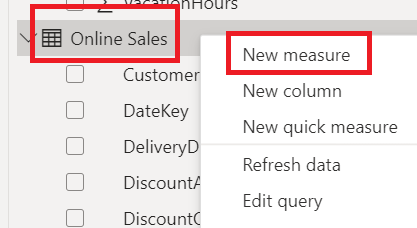
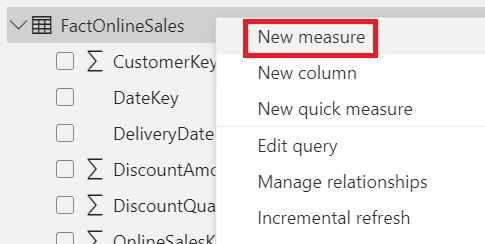
Updates to data modeling section for ordering.

diff --git a/Day After Dashboard in a Day/DataModeling.md b/Day After Dashboard in a Day/DataModeling.md
@@ -575,6 +575,76 @@ Learn more about [incremental refresh](https://learn.microsoft.com/power-bi/conn
 
 ---
 
+# Data Analysis Expressions (DAX)
+
+DAX is a formula expression language used in Analysis Services, Power BI, and Power Pivot in Excel. DAX formulas include functions, operators, and values to perform advanced calculations and queries on data in related tables and columns in tabular data models.
+## SUM
+1. Right click the **FactOnlineSales** table in the **Data** pane and select **New measure** and complete the formulas below.
+    
+
+    ![Sales new measure](./Media/SalesNewMeasure.png)
+
+1. In the formula bar, write the following DAX formulas:
+    1. **Note:** You'll need to follow the above instruction to create a new measure for each.
+
+    | Name | Measure |
+    | :-- | :-- |
+    | Total Sales Amount | SUM(FactOnlineSales[SalesAmount]) |
+    | Total Items Discounted | SUM(FactOnlineSales[DiscountQuantity]) |
+    | Total Returned Items | SUM(FactOnlineSales[ReturnQuantity]) |
+
+## SAMEPERIODLASTYEAR
+
+We need to compare sales from the previous year to the current time period. If there are no sales in the previous year, we should return a blank value.
+
+1. Right click the **FactOnlineSales** table in the **Data** pane and select **New measure** and complete the formula below.
+
+    ![Sales new measure](./Media/SalesNewMeasure.png)
+
+1. In the formula bar, write this DAX formula with the **CALCULATE**, and **SAMEPERIODLASTYEAR** functions. Use a variable (**VAR**) and conditional logic (**IF**) to account for years where no sales data is available.
+
+    ```powershell
+    Total Sales SPLY = 
+    VAR _hassalesdata =
+        NOT ( ISBLANK ( [Total Sales Amount] ) )
+    RETURN
+        IF (
+            _hassalesdata,
+            CALCULATE ( [Total Sales Amount], SAMEPERIODLASTYEAR (DimDate[DateKey] ) ),
+            BLANK ()
+        )
+    ```
+
+    The **SAMEPERIODLASTYEAR** function is a time intelligence function in DAX that returns a table that contains a column of dates shifted one year back in time from the dates in the specified dates column, in the current context.
+
+    Learn more about [SAMEPERIODLASTYEAR](https://learn.microsoft.com/dax/sameperiodlastyear-function-dax)
+
+
+## USERELATIONSHIP
+
+To filter by the order date and the delivery date from our **FactOnlineSales** table, we need to use the USERELATIONSHIP function in DAX. This will activate the relationship between **DateKey** in **DimDate** table and **DeliveryDate** in **FactOnlineSales** table with this formula.
+
+1. Right click the **FactOnlineSales** table in the **Data** pane and select **New measure**.
+
+    ![Sales new measure](./Media/SalesNewMeasure.png)
+
+1. In the formula bar, write this DAX formula with the **CALCULATE** and **USERELATIONSHIP** functions.
+
+    ```powershell
+    Total Sales By Delivery Date =
+    CALCULATE (
+        [Total Sales Amount],
+        USERELATIONSHIP ( DimDate[DateKey], FactOnlineSales[DeliveryDate] )
+    )
+
+    ```
+
+    The **USERELATIONSHIP** function is used to specify the relationship to be used in a specific calculation. When used, it temporarily activates the relationship between two tables for the duration of the calculation.
+    
+    Learn more about [USERELATIONSHIP](https://docs.microsoft.com/dax/userelationship-function-dax)
+
+---
+
 # Model properties
 
 With the model properties pane in Power BI, you can see and change the properties of your data model items, such as tables, columns, and measures. You can use the model properties pane to rename, format, type, group, describe, and adjust your data model items. The model properties pane helps you to arrange and explain your data model, and to make it look and work better.
@@ -759,75 +829,6 @@ Learn more about [aggregate](https://learn.microsoft.com/power-bi/create-reports
 
 ---
 
-# Data Analysis Expressions (DAX)
-
-DAX is a formula expression language used in Analysis Services, Power BI, and Power Pivot in Excel. DAX formulas include functions, operators, and values to perform advanced calculations and queries on data in related tables and columns in tabular data models.
-## SUM
-1. Right click the **Online Sales** table in the **Data** pane and select **New measure** and complete the formulas below.
-    
-
-    ![Sales new measure](./Media/SalesNewMeasure.png)
-
-1. In the formula bar, write the following DAX formulas:
-    1. **Note:** You'll need to follow the above instruction to create a new measure for each.
-
-    | Name | Measure |
-    | :-- | :-- |
-    | Total Sales Amount | SUM('FactOnlineSales'[SalesAmount]) |
-    | Total Items Discounted | SUM(FactOnlineSales[DiscountQuantity]) |
-    | Total Returned Items | SUM(FactOnlineSales[ReturnQuantity]) |
-
-## SAMEPERIODLASTYEAR
-
-We need to compare sales from the previous year to the current time period. If there are no sales in the previous year, we should return a blank value.
-
-1. Right click the **Online Sales** table in the **Data** pane and select **New measure** and complete the formula below.
-
-    ![Sales new measure](./Media/SalesNewMeasure.png)
-
-1. In the formula bar, write this DAX formula with the **CALCULATE**, and **SAMEPERIODLASTYEAR** functions. Use a variable (**VAR**) and conditional logic (**IF**) to account for years where no sales data is available.
-
-    ```powershell
-    Total Sales SPLY = 
-    VAR _hassalesdata =
-        NOT ( ISBLANK ( [Total Sales Amount] ) )
-    RETURN
-        IF (
-            _hassalesdata,
-            CALCULATE ( [Total Sales Amount], SAMEPERIODLASTYEAR (Calendar[DateKey] ) ),
-            BLANK ()
-        )
-    ```
-
-    The **SAMEPERIODLASTYEAR** function is a time intelligence function in DAX that returns a table that contains a column of dates shifted one year back in time from the dates in the specified dates column, in the current context.
-
-    Learn more about [SAMEPERIODLASTYEAR](https://learn.microsoft.com/dax/sameperiodlastyear-function-dax)
-
-
-## USERELATIONSHIP
-
-To filter by the order date and the delivery date from our **Online Sales** table, we need to use the USERELATIONSHIP function in DAX. This will activate the relationship between **DateKey** in **Calendar** table and **DeliveryDate** in **Online Sales** table with this formula.
-
-1. Right click the **Online Sales** table in the **Fields** pane and select **New measure**.
-
-    ![Sales new measure](./Media/SalesNewMeasure.png)
-
-1. In the formula bar, write this DAX formula with the **CALCULATE** and **USERELATIONSHIP** functions.
-
-    ```powershell
-    Total Sales By Delivery Date =
-    CALCULATE (
-        [Total Sales Amount],
-        USERELATIONSHIP ( DimDate[DateKey], FactOnlineSales[DeliveryDate] )
-    )
-
-    ```
-
-    The **USERELATIONSHIP** function is used to specify the relationship to be used in a specific calculation. When used, it temporarily activates the relationship between two tables for the duration of the calculation.
-    
-    Learn more about [USERELATIONSHIP](https://docs.microsoft.com/dax/userelationship-function-dax)
-
----
 # Security
 
 Row level security (RLS) in Power BI is a feature that allows you to restrict data access for certain users based on filters that you define within roles. For example, you can limit sales data to specific regions or departments.
